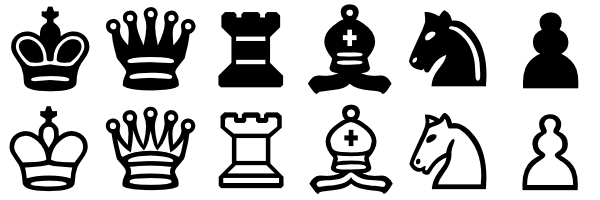
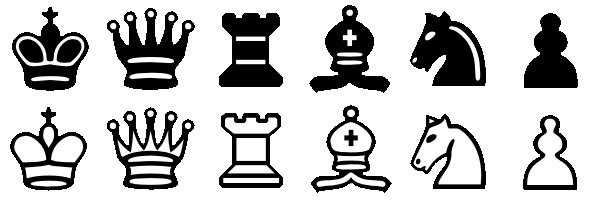
Use PNG transparency

diff --git a/chess_game.py b/chess_game.py
@@ -14,7 +14,7 @@ if __name__ == '__main__':
     pygame.display.set_caption("Chess")
 
     try:
-        image = pygame.image.load("chess_pieces.png").convert()
+        image = pygame.image.load("chess_pieces.png").convert_alpha()
     except pygame.error as e:
         print("Unable to load image.")
         raise SystemExit(e)
